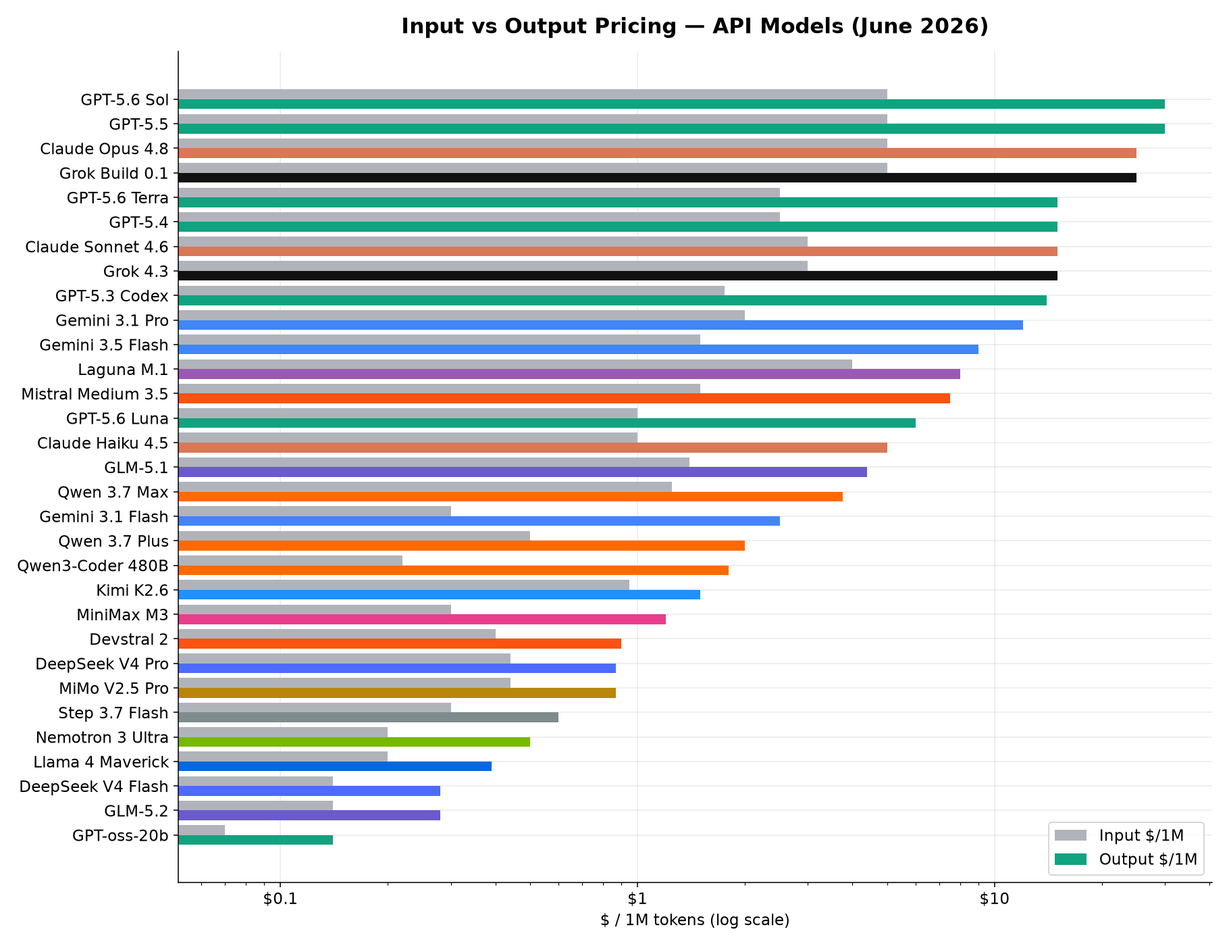
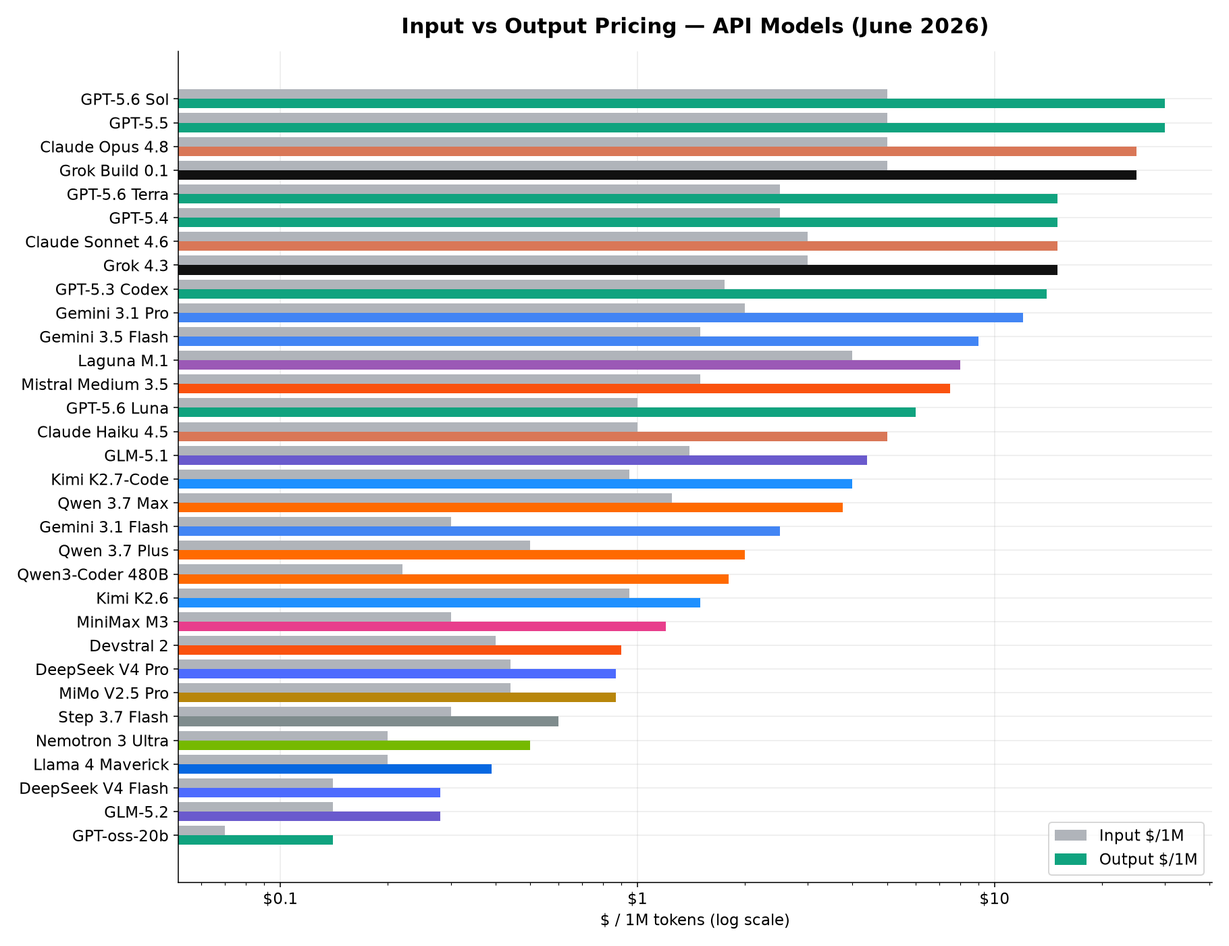
some more additions

Changed region(s): [[0.0, 0.1229, 0.9231, 0.8907]]

diff --git a/MEDIA.md b/MEDIA.md
@@ -11,9 +11,12 @@
 
 | Tool | Best for | Free tier | Paid entry | API | Link |
 |---|---|---|---|---|---|
-| **Midjourney** | Artistic quality (aesthetic king) | None | $10/mo Basic | ❌ no public API | midjourney.com |
-| **FLUX** (Black Forest Labs) | Open-weights + API flexibility | schnell/Klein open-weight (local) | API ~$0.01–0.10/img (Pro ~$0.08) | ✅ | bfl.ai |
-| **Ideogram** | Readable **text in images** | 10 credits/wk (~40 img) | Plus $15/mo (1,000 credits) | Enterprise | ideogram.ai |
+| **Midjourney v8.1** | Artistic quality (aesthetic king) — still strongest aesthetic | None | $10/mo Basic → $120 Mega | ❌ no public API (subscription-only) | midjourney.com |
+| **FLUX.2 Pro** (Black Forest Labs) | **Best photoreal API**, multi-ref consistency, edit ≤4MP | schnell/Klein open-weight (local) | MP-based: ~$0.03 first MP then $0.015/MP (~$0.02–0.06/img) | ✅ | bfl.ai |
+| **gpt-image-2** (OpenAI) | Conversational image creation, **95%+ text** accuracy, 4K, web-search/thinking | ChatGPT free (limited) | API (token-based) · Plus $20/mo | ✅ (API + Codex) | openai.com |
+| **Imagen 4** (Google) | **Best text rendering** + photorealism, 2K, SynthID | Free in AI Studio | $0.02 Fast · $0.04 Std · $0.06 Ultra /img | ✅ | ai.google.dev |
+| **Ideogram v3** | Readable **text in images** (typography king, 90–95%), Style Refs | 10 credits/wk (~40 img) | Plus $15/mo (1,000 credits) | Enterprise | ideogram.ai |
+| **MAI-Image-2.5** (Microsoft) | T2I + editing, **#3 on Arena** (beats Nano Banana Pro) | — | $5/$33 per 1M (+ Flash variant) | ✅ Foundry/OpenRouter/Fireworks | microsoft.ai |
 | **Recraft** | **Vectors / SVG**, brand systems | 50 credits/day | $10/mo (1,000 credits) | ✅ | recraft.ai |
 | **Leonardo AI** | Game/concept art + editing | 150 tokens/day (~20–30 img) | $12/mo | ✅ | leonardo.ai |
 | **Krea** | Real-time gen, generous free | 50–100/day | ~$5/mo (annual) | ✅ | krea.ai |
@@ -23,7 +26,7 @@
 | **Adobe Firefly** | Commercial-safe, integrated | Free credits | Creative Cloud | ✅ | firefly.adobe.com |
 | **Stable Diffusion / SDXL / SD3** | Local, fully free | Free (open-weight) | — | self-host | stability.ai |
 
-> **Cheapest API at scale:** Flux 2 Pro (~$0.08/img). **Most generous free:** Krea / Recraft (50/day). **Commercial-safe:** Firefly. ⚠ Free tiers usually make outputs public + trainable; only paid = private + ownership.
+> **Cheapest API at scale:** Imagen 4 Fast / FLUX.2 Pro (~$0.02/img). **Best text-in-image:** Ideogram v3 / Imagen 4 / gpt-image-2 (95%+). **Strongest aesthetic:** Midjourney v8.1 (no API). **Most generous free:** Krea / Recraft (50/day). **Commercial-safe:** Firefly. ⚠ Free tiers usually make outputs public + trainable; only paid = private + ownership.
 
 ---
 
@@ -32,7 +35,15 @@
 | Tool | What | Free tier | Link |
 |---|---|---|---|
 | **ElevenLabs** | Best TTS + voice cloning | 10K chars/mo | elevenlabs.io |
+| **Alibaba Fun-Realtime-TTS** | **#1 Arena Elo (1,219)** — beats Gemini 3.1 Flash TTS & Cartesia Sonic. 30+ langs, Chinese dialects | API ~$27.6/1M chars | tongyi (FunAudioLLM) |
+| **Inworld Realtime TTS-2** | Closed-loop (hears prior audio), NL voice-direction, 100+ langs — built for game NPCs | API ~$35/1M chars | inworld.ai |
+| **OpenAI GPT-Realtime-2** | GPT-5-class speech-to-speech — *reasons* before speaking, tool calls mid-speech, preambles | API $32/$64 per 1M audio tok | openai.com |
 | **Cartesia** (Sonic) | Ultra-low-latency TTS for agents | Free credits | cartesia.ai |
+| **Mistral Voxtral TTS** | **Open-weight** frontier TTS (CC BY-NC), 3s voice clone, ~90ms TTFA, 9 langs. Beats ElevenLabs Flash | Weights free (HF) · API $16/1M chars | mistral.ai |
+| **Hume AI TADA** | **MIT** open — text-acoustic dual alignment = *zero hallucinations*, 5x+ faster, ≤700s. 1B EN / 3B multiling | Free (open-weight) | hume.ai |
+| **Kyutai Pocket TTS** | **100M params, runs CPU realtime** (even WASM/browser), voice clone, 6 langs. Lightest prod TTS | Free (open-weight) | kyutai.org |
+| **MAI-Voice-2** (Microsoft) | TTS, 15 langs, voice clone from short sample (+Flash) | API (Foundry/OpenRouter) | microsoft.ai |
+| **MAI-Transcribe-1.5** (Microsoft) | SOTA STT — 5x faster than competitors, 43 langs | API (Foundry/OpenRouter) | microsoft.ai |
 | **PlayHT / Play.ai** | TTS + voice agents | Free trial | play.ht |
 | **Deepgram** | Fast STT (transcription) | $200 free credit | deepgram.com |
 | **AssemblyAI** | STT + audio intelligence | Free credits | assemblyai.com |
@@ -41,6 +52,8 @@
 | **Suno / Udio** | Music generation | Free daily credits | suno.com · udio.com |
 | **Stability Audio** | Music/SFX | Free tier | stableaudio.com |
 
+> **TTS 2026 rankings (Artificial Analysis Speech Arena):** Fun-Realtime-TTS (1,219) > Gemini 3.1 Flash TTS (1,214) > Inworld TTS-2 (1,209) > Cartesia Sonic 3.5 (1,203) — within 24 Elo, tightest race ever.
+> **Pick:** open-weight/on-device → Voxtral · Hume TADA · Pocket TTS · reasoning voice agents → GPT-Realtime-2 · Inworld TTS-2 · cheapest quality → Fun-Realtime-TTS.
 > Full music-gen comparison + licensing tree → [AGENTS.md](./AGENTS.md) Part 13.
 
 ---
@@ -52,6 +65,11 @@ Three camps: **tracing** (Langfuse, LangSmith), **gateways** (Helicone, Portkey 
 | Tool | Camp | License | Free tier | Link |
 |---|---|---|---|---|
 | **Langfuse** | Tracing + prompts + eval | MIT (now ClickHouse-owned) | Hobby 50K obs/mo; **unlimited self-host** | langfuse.com |
+| **AgentOps** | Agent tracing — time-travel debugging, multi-agent viz | Apache 2.0 | Free tier; 400+ LLMs | agentops.ai |
+| **W&B Weave** | Tracing + eval inside existing W&B console (`@weave.op`) | Apache 2.0 | Free tier | wandb.ai/weave |
+| **Laminar** | Agent-first tracing, **OTel-native** (~5% overhead) | Apache 2.0 | Free 1GB; self-host free | laminar.sh |
+| **Confident AI** | Eval-first (cloud **DeepEval**) — every trace scored, alerts | OSS core (~12K★) | Free tier | confident-ai.com |
+| **Maxim AI** | Agent **simulation** pre-prod + real-time post-deploy | Closed | Free tier | getmaxim.ai |
 | **LangSmith** | Tracing (LangChain/Graph) | Closed | 5K traces/mo | smith.langchain.com |
 | **Helicone** | Gateway (1-line proxy) | Apache 2.0 | 10K req/mo, 7-day retention; self-host free | helicone.ai |
 | **Portkey** | Gateway (multi-provider routing) | MIT | 10K logs/mo | portkey.ai |
@@ -62,6 +80,8 @@ Three camps: **tracing** (Langfuse, LangSmith), **gateways** (Helicone, Portkey 
 | **Pydantic Logfire** | Tracing (Pydantic AI) | Free tier | — | pydantic.dev/logfire |
 
 > **Zero-cost stack:** self-host Langfuse or Phoenix → no per-unit cost. **Fastest start:** Helicone (change one URL). **By framework:** LangChain→LangSmith · LlamaIndex→Phoenix/Langfuse · raw API→Helicone/Portkey. Combine freely (OTel-based tools interop).
+
+> **2026 funding signals:** Langfuse **acquired by ClickHouse** (Jan 16, $400M Series D, $15B valuation) — still MIT, no pricing change. Braintrust raised **$80M Series B** (Feb 2026, ~$800M valuation; Vercel/Notion/Dropbox customers). Capital is flowing to eval/accountability infra, not just model deployment.
 
 ---
 
@@ -75,5 +95,7 @@ Three camps: **tracing** (Langfuse, LangSmith), **gateways** (Helicone, Portkey 
 | **Fern** | SDK + docs from OpenAPI | Free tier | buildwithfern.com |
 | **Inkeep / Trieve** | AI answer engine over your docs | Free tier | inkeep.com · trieve.ai |
 | **Context7** | Up-to-date lib docs as MCP for agents | Free | context7.com |
+| **Kapa AI** | AI assistant grounded in YOUR docs (cites sources, flags gaps). Ingests MD/GitHub/Confluence/YouTube/Zendesk → Slack/Discord/in-app + hosted MCP | Free tier | kapa.ai |
+| **Swimm** | **Code-coupled docs** — linked to code snippets, auto-flags/updates on change, CI staleness check | Free tier | swimm.io |
 
 Cross-ref: AI code review / SAST → [AGENTS.md](./AGENTS.md) Part 8 · video/music/UI → Parts 12–14.

diff --git a/AGENTS.md b/AGENTS.md
@@ -260,6 +260,7 @@ brew install aionui
 
 | Agent | By | Type | Price | Capability |
 |---|---|---|---|---|
+| **OpenClaw** | OpenClaw Foundation | Self-hosted personal agent | Free (MIT, BYO LLM key) | **380K+ stars — most-starred self-hosted agent.** Long-running Node service routing 23+ chat channels (WhatsApp/Telegram/Discord/Signal/Slack) to an agent that reads files, runs commands, persists memory. ClawHub skill registry. Founder Peter Steinberger joined OpenAI; foundation now stewards it. ⚠ Broad system access + untrusted 3rd-party skills = real RCE/malware risk |
 | **Manus AI** | Manus (ex-Monica.im) | Autonomous VM agent | Free 300cr/day · Pro $20 · Extended $200/mo | Sandboxed VM. Web browse, code, files, slides. 20 concurrent tasks on Pro |
 | **Genspark** | Genspark | All-in-one "Super Agent" | Free ~100–200cr/day (no card) · Plus $24.99 ($19.99/yr, 10K cr) · Pro $249.99 (125K cr) | Orchestrates many frontier models + 80+ tools. AI Slides/Sheets, image+video gen, AI Developer, real phone calls. Chat+image = 0 credits on paid through Dec 31 2026 |
 | **Devin** | Cognition | Autonomous SWE | $20/mo + $2.25/ACU | Full tickets end-to-end, PR creation |
@@ -299,7 +300,8 @@ brew install aionui
 | **pi-builder** | Wrapper | Wraps any installed CLI agent (Claude Code, Codex, OpenCode, Aider, Goose, Plandex, SWE-agent, Crush) behind single interface with capability routing, health caching, fallback chains, SQLite |
 | **LiteLLM** | Router | OpenAI-compatible proxy for 100+ providers. Used internally by OpenHands |
 | **OpenRouter** | Router | 200+ models via single API key. `:free` suffix for free models |
-| **MCP** | Protocol | Model Context Protocol — standard for agent↔tool integration. 36,000+ servers |
+| **MCP** | Protocol | Model Context Protocol — standard for agent↔tool integration. 72,500+ servers (cross-registry, Jun 2026) |
+| **A2A (Agent2Agent)** | Protocol | Google's open spec for agent↔agent interop — the companion to MCP (tool access). Native in Google ADK, OpenAgents, VoltAgent |
 | **ACP (Zed)** | Protocol | Agent Client Protocol — run any agent natively in Zed editor |
 | **CLIProxyAPI** | Proxy | Wraps Claude Code / Codex / Antigravity / Grok Build OAuth sessions → OpenAI-compatible API. Multi-account round-robin load balancing. 38.5K stars. [github.com/router-for-me/CLIProxyAPI](https://github.com/router-for-me/CLIProxyAPI) |
 
@@ -402,6 +404,14 @@ Each MCP server exposes **Tools** (callable actions), **Resources** (readable da
 | **Docker MCP** | 4K+ | Container management — build, run, inspect |
 | **Kubernetes MCP** | 3K+ | Pod management, deployments, logs |
 
+**Creative / Design**
+
+| Server | Stars/Scale | What It Does |
+|---|---|---|
+| **Anthropic Creative Connectors** | 9 official | Claude for Creative Work (Apr 28 2026) — Blender, Adobe CC (50+ tools), Ableton, Autodesk Fusion, SketchUp, Affinity, Resolume, Splice. MCP-based → work in any MCP client, free on all plans |
+| **Figma Dev Mode MCP** | official | Figma's own Dev Mode server — pull design context (frames, variables, components) straight into the IDE/agent |
+| **Docker Hub MCP** | official | Docker's MCP catalog — discover/run containerized MCP servers in a sandbox |
+
 ### MCP Apps (January 26, 2026)
 
 Anthropic launched **MCP Apps** — MCP servers can now render interactive UIs directly inside Claude's chat window. Not just text responses — actual interactive interfaces.
@@ -422,8 +432,9 @@ Remote MCP runs as hosted endpoints — no local server needed, connect via URL 
 | Atlassian | mcp.atlassian.com | OAuth |
 | Linear | mcp.linear.app | API key |
 | Sentry | mcp.sentry.io | API key |
+| Cloudflare | 13 hosted servers (~2,500 API endpoints) | OAuth |
 
-Remote MCP grew from 16 servers (Jan 2026) → 25+ (Apr 2026). All major dev platforms now have remote endpoints.
+Remote MCP grew from 16 servers (Jan 2026) → 25+ (Apr 2026). All major dev platforms now have remote endpoints. **Cloudflare** ships the widest first-party set — 13 remote servers spanning ~2,500 API endpoints (Workers, R2, KV, DNS, Radar, etc.).
 
 ### Build Your Own MCP Server
 
@@ -789,6 +800,8 @@ Visual platforms for building AI workflows, RAG pipelines, and multi-agent syste
 | **Activepieces** | activepieces.com | 18K+ | Zapier-like + AI agents | Yes | Yes | $99+ |
 | **Stack AI** | stack-ai.com | — | Enterprise no-code AI builder | No | No | $199+ |
 | **Zapier AI** | zapier.com | — | AI actions on 7,000+ integrations | No | Yes (limited) | $20+ |
+| **Gumloop** | gumloop.com | — | No-code AI agents for non-devs, 130+ integrations | No | Yes | $97+ |
+| **Lindy** | lindy.ai | — | No-code AI agents/assistants for non-devs (email, meetings, CRM) | No | Yes (limited) | $49+ |
 
 **n8n** — default for enterprise workflow automation. Visual + code mode. Built-in AI agents, human-in-the-loop steps, TypeScript extensibility. 150K+ stars, most mature.
 
@@ -797,6 +810,8 @@ Visual platforms for building AI workflows, RAG pipelines, and multi-agent syste
 **Langflow** — Python-first, developer-friendly. Best for RAG pipelines and complex agent graphs. Drag-and-drop + code hybrid.
 
 **Flowise** — LangChain visual. Wire vector store + model + tools in one screen. Perfect for local model setups via Ollama.
+
+**Gumloop** — fastest-rising no-code agent builder. $50M Series B led by Benchmark (Mar 2026, ~$70M total), YC-backed. Customers: Shopify, Ramp, Gusto, Instacart, Opendoor, Samsara. Model-agnostic — the pitch vs n8n is hosted speed + non-technical UX.
 
 **2026 enterprise pattern**: n8n as orchestration layer → Langflow/Flowise as AI reasoning layer.
 
@@ -816,8 +831,10 @@ Visual platforms for building AI workflows, RAG pipelines, and multi-agent syste
 | **Mastra** | mastra.ai | 22K+ | TypeScript | **TS leader** — workflows, HITL, Next.js (YC W25, v1.0 Jan 2026) |
 | **OpenAI Agents SDK** | openai.github.io/openai-agents-python | — | Python/JS | OpenAI-native handoffs (Swarm successor, model-locked) |
 | **Google ADK** | google.github.io/adk-docs | — | Python | Gemini-optimized, A2A interop (can call LangGraph/CrewAI agents) |
-| **Microsoft Agent Framework** | — | — | Python/.NET | Unified AutoGen + Semantic Kernel successor (1.0 GA) |
-| **Agno** (Phidata) | agno.com | — | Python | High-throughput agent swarms |
+| **Microsoft Agent Framework (MAF)** | github.com/microsoft/agent-framework | — | Python/.NET | Unified AutoGen + Semantic Kernel successor. **1.0 GA Apr 2026** — both predecessors now maintenance-only |
+| **Agno** (ex-Phidata) | agno.com | 39K+ | Python | High-throughput agent swarms. Most-starred pure-agent framework |
+| **VoltAgent** | voltagent.dev | ~2K | TypeScript | Observability-first TS framework — typed tools, MCP + A2A, VoltOps console (addthis claims 26K — unverified, sourced count ~1.5K Apr 2026) |
+| **OpenAgents** | github.com/openagents-org/openagents | — | Python | Multi-agent *network* platform — native MCP + A2A, shared browser/workspace, Launcher daemon |
 | **Vercel AI SDK** | sdk.vercel.ai | — | TypeScript | Full-stack TS agents, streaming UI |
 
 **Decision guide (2026):** complex stateful Python graphs → **LangGraph** (enterprise default: Klarna, Uber, JPMorgan) · fast multi-agent prototype → **CrewAI** (teams often graduate to LangGraph for checkpointing) · TypeScript → **Mastra** · type-safe Python → **Pydantic AI** · RAG-heavy → **LlamaIndex** · Microsoft/.NET → Microsoft Agent Framework. Pair any with an observability stack (LangSmith / Langfuse / Pydantic Logfire / AgentOps).

diff --git a/MODELS.md b/MODELS.md
@@ -27,7 +27,8 @@
 
 | Model | Company | SWE-bench | Src | In $/1M | Out $/1M | Context | Notes |
 |---|---|---|---|---|---|---|---|
-| **Fable 5** | Mythic | **95.0%** | [C] | — | — | — | SWE-bench record. Export-suspended Jun 12 (US controls). Not publicly usable |
+| **Fable 5** | Anthropic | **95.0%** | [V] | $10 | $50 | 1M | Mythos-class (tier above Opus). GA Jun 9 → pulled from subs Jun 23, export-suspended Jun 12 (US controls). SWE-bench Pro 80.3%. 30-day forced retention |
+| **Mythos 5** | Anthropic | **95.5%** | [C] | $10 | $50 | 1M | Same base as Fable 5, safety classifiers removed. "World's strongest cyber model" (ExploitBench 78%). Restricted to Project Glasswing cyber-defenders. Not GA |
 | **GPT-5.6 Sol** | OpenAI | ~91%[est] | [V] | $5 | $30 | 1.5M | Preview Jun 26. Flagship. TB 2.1 **88.8%** (Sol Ultra 91.9%). Max + Ultra (parallel subagents). Cerebras 750 tok/s in July |
 | **GPT-5.6 Terra** | OpenAI | ~88%[est] | [V] | $2.50 | $15 | 1M | Preview Jun 26. GPT-5.5-class at half price |
 | **GPT-5.6 Luna** | OpenAI | ~84%[est] | [V] | $1 | $6 | 1M | Preview Jun 26. Fast/high-volume tier |
@@ -43,13 +44,16 @@
 | Qwen 3.7 Max | Alibaba | 80.4% | open | $1.25 | $3.75 | 1M | Promo; list $2.50/$7.50 |
 | Qwen 3.7 Plus | Alibaba | ~78% | open | $0.50 | $2.00 | 1M | Reasoning model, 1M ctx |
 | Kimi K2.6 | Moonshot | 80.2% | open | $0.95 | **$1.50** | 262K | 4,000+ tool calls/session. Sweet spot |
+| **Kimi K2.7-Code** | Moonshot | ~80%[est] | open | $0.95 | **$4** | 262K | Jun 12. 1T MoE/32B active, forced thinking. +21.8% Kimi Code Bench v2 vs K2.6, -30% reasoning tokens. Modified MIT. Vendor benches only |
 | Grok 4.3 | xAI | ~78% | [C] | $3 | $15 | 128K | Closed eval |
 | Gemini 3.5 Flash | Google | 78.8% | open | $1.50 | $9 | 1M | |
 | Qwen3-Coder 480B | Alibaba | 78.0% | open | $0.22 | $1.80 | 1M | Apache 2.0, MoE 35B active. Free on OpenRouter |
 | Mistral Medium 3.5 | Mistral | 77.6% | open | $1.50 | $7.50 | 256K | EU-hosted, GDPR |
+| **Meta Muse Spark** | Meta (MSL) | 77.4% | [V] | — | — | — | Apr 8. First Meta Superintelligence Labs model (not Llama). Free on meta.ai, API private-preview only. Strong multimodal/health, weak agentic (TB 2.0 59%). Closed |
 | Laguna M.1 | Poolside | ~78% | [C] | $4 | $8 | 256K | Coding specialist |
 | MiMo V2.5 Pro | Xiaomi | 75.0% | open | $0.44 | **$0.87** | 1M | 40-60% fewer tokens/trajectory. Sweet spot |
 | Claude Haiku 4.5 | Anthropic | 74.8% | [V] | $1 | $5 | 200K | Fast, cheap Claude |
+| **MAI-Code-1-Flash** | Microsoft | ~74%[est] | [V] | — | — | — | 137B MoE/5B active. "Haiku-class but cheaper." Bundled into all Copilot plans + VS Code. Weights tunable. OpenRouter/Fireworks/Baseten |
 | Llama 4 Maverick | Meta | 74.0% | open | $0.20 | $0.39 | 1M | Apache 2.0 via third-party |
 | Gemini 3.1 Flash | Google | 74.0% | open | $0.30 | $2.50 | 1M | Cheapest Google |
 | Devstral 2 | Mistral | 72.2% | open | $0.40 | $0.90 | 256K | Best-value Mistral open-weight |
@@ -138,7 +142,7 @@
 | Context | Models |
 |---|---|
 | 1M | GPT-5.5, GPT-5.4, GPT-5.3, Opus 4.8, Sonnet 4.6, DeepSeek V4 Pro/Flash, MiniMax M3, Qwen 3.7 Max, Qwen3-Coder 480B, Llama 4 Mav, Gemini 3.x, MiMo V2.5 Pro, Nemotron 3, GLM-5.2 |
-| 262K | Kimi K2.6 |
+| 262K | Kimi K2.6, Kimi K2.7-Code |
 | 256K | Mistral Medium 3.5, Devstral 2, Laguna M.1, Step 3.7 Flash |
 | 200K | GLM-5.1, Claude Haiku 4.5 |
 | 128K | Grok 4.3, Grok Build 0.1 |
@@ -163,9 +167,24 @@
 | Model | Company | Status |
 |---|---|---|
 | **Gemini 3.5 Pro** | Google | Announced Google I/O (May 19), GA imminent. ~$15/$60 expected, **2M ctx**, Deep Think mode |
-| **Fable 5** | Mythic | SWE-bench record (95%). **Export-suspended Jun 12** (US controls) — not publicly usable |
+| **Fable 5** | Anthropic | Mythos-class (95%), GA Jun 9 → **export-suspended Jun 12** (US controls). Now in Table 1 |
 | **DeepSeek V5** | DeepSeek | Rumored Q2–Q3 2026 — expected to push Tier-1 capability + drop cost further |
 | **Kimi K3** | Moonshot | Rumored Q3 2026 |
+| **MAI-Thinking-1** | Microsoft | Flagship reasoning, private preview via Foundry (Build 2026, Jun 2). 35B MoE, 97% AIME 2025, 53% SWE-bench Pro, 256K ctx. Trained no-distillation, preferred over Sonnet 4.6 in blind evals |
+| **Mythos 5** | Anthropic | Mythos-class cyber model (95.5%). Project-Glasswing-only with US gov — never GA |
+| **Gemini Omni Pro** | Google | Full any-in/any-out follow-up to Omni Flash (I/O May 19). Dev API "coming weeks", no pricing yet |
+
+---
+
+## Consumer / On-Device (not API-accessible)
+
+> Frontier-adjacent models you can't call from code — listed so the archive stays complete.
+
+| Model | Company | What it is |
+|---|---|---|
+| **Apple AFM 3** | Apple | WWDC Jun 8 family powering new Siri AI. On-device: Core (3B dense), Core Advanced (20B sparse, ~1–4B active via Instruction-Following Pruning). Cloud: AFM 3 Cloud, ADM 3 Cloud (image), Cloud Pro (Nvidia GPUs in Google Cloud under Private Cloud Compute). Gemini used as distillation *teacher*, not runtime. No EU/China at launch |
+| **Gemini Omni Flash** | Google | First "any-to-any" Google model (I/O May 19). Any input → ~10s video+audio out, conversational editing, personal avatars (number-handshake anti-deepfake), SynthID + C2PA baked in. AI Plus/Pro/Ultra + free in YouTube Shorts. No dev API yet |
+| **Meta Muse Spark** | Meta | Free on meta.ai (also in Table 1) — listed here as the consumer entry point; API is partner-only |
 
 **How to find early access:** search `"<model> early access" / "<model> preview" / "<model> waitlist"`, the vendor's Discord/X, and `r/LocalLLaMA` + `r/singularity`. Open-weight Chinese models (GLM/DeepSeek/Kimi/Qwen/MiniMax) usually ship **directly as MIT/Apache weights** — no waitlist; grab them on HuggingFace/ModelScope day one.
 
@@ -196,12 +215,17 @@
 |---|---|
 | Mar 18 | MiniMax M2.7 — "self-evolution" agentic training |
 | Apr 7 | GLM-5.1 (Z.AI) — 744B MoE, 200K ctx, MIT |
+| Apr 8 | Meta Muse Spark — first Meta Superintelligence Labs model (77.4%), free on meta.ai |
 | Apr 16 | Claude Opus 4.7 |
 | Apr 21 | Kimi K2.6 — briefly tops open SWE-bench Pro (58.6%) |
 | Apr 23 | GPT-5.5 |
 | Apr 24 | DeepSeek V4 Pro (1.6T/49B) + V4 Flash (284B/13B), MIT, 1M ctx |
+| May 19 | Gemini Omni Flash — Google's first any-to-any multimodal (I/O) |
 | May 28 | Claude Opus 4.8 — 1M ctx, hybrid reasoning |
-| Jun 12 | Fable 5 (95%) export-suspended |
+| Jun 2 | Microsoft MAI models (Build 2026) — MAI-Thinking-1, MAI-Code-1-Flash, +image/voice/transcribe |
+| Jun 8 | Apple AFM 3 family — new Siri AI (WWDC), Gemini-distilled |
+| Jun 9 | Claude Fable 5 + Mythos 5 GA — Mythos-class tier above Opus, $10/$50 |
+| Jun 12 | Fable 5 export-suspended (US controls); Kimi K2.7-Code released |
 | Jun 13 | GLM-5.2 — 1M ctx, MIT |
 | Jun 16 | MiniMax M3 tops open SWE-bench Pro (59.0%) |
 | Jun 26 | GPT-5.6 Sol/Terra/Luna preview — gated to ~20 orgs pending US-gov 30-day cyber review (EO Jun 2); GA "coming weeks" |

diff --git a/FRONTEND.md b/FRONTEND.md
@@ -10,6 +10,7 @@
 | Tool | What | Free tier | Paid entry | Model / BYOK | Link |
 |---|---|---|---|---|---|
 | **Bolt.new** | Browser IDE, full-stack in WebContainers | **1M tokens/mo** (no card) — most generous of the majors, ~2–5 small apps | Pro $25/mo (~13M tokens) | Claude (no BYOK) | bolt.new |
+| **Blink.new** (YC W25) | Prompt → production web/Next.js app, auto-provisions Turso + Firebase + Deno Deploy | Free tier | Credits | Managed | blink.new |
 | **Lovable** | Prompt → React + Supabase SaaS, cleanest code | 5 credits/day, ~30/mo cap | Pro from $25/mo (100 credits) | Managed | lovable.dev |
 | **Replit Agent** (Agent 4) | Cloud IDE + DB + deploy, 50+ langs, real-browser testing | Starter: daily Agent trial, 1 published app | Core $20–25/mo ($25 credits) · Pro $100/mo | Managed | replit.com |
 | **v0** (Vercel) | Polished React/Next UI, auto-deploy to Vercel | Limited free credits | Premium $20/mo (Mini/Pro/Max tiers) | Managed (no model choice) | v0.dev |
@@ -21,12 +22,30 @@
 
 > **Credit-burn rule (all of them):** vague prompts, long chats, and error loops eat the free allowance. Plan before prompting. Bolt's 1M tokens/mo is the most usable free runway.
 
+> Also emerging (lighter coverage, verify before relying): **Lumi.new**, **Rocket.new**, **NxCode** — newer prompt→full-stack builders. **Cloudflare VibeSDK** is open-source and self-hostable → see Part 5.
+
+---
+
+## Part 1.5 — Native Mobile App Builders (prompt → real React Native / iOS)
+
+> The web builders above output web apps. These produce actual native mobile — real `.tsx` React Native (Expo), not a no-code wrapper — with store submission.
+
+| Tool | What | Free | Paid entry | Output | Link |
+|---|---|---|---|---|---|
+| **a0.dev** (YC W25) | Prompt → React Native (Expo). Browser iOS simulator, 1-click App Store + Play submit, built-in payments/analytics/OTA, 2-way GitHub sync. Convex/Supabase backend | 1 app project | Pro $20/mo (100 msg/day) → up to $800/mo | Real RN `.tsx` | a0.dev |
+| **Rork** | Prompt → production mobile app, Expo on-device preview (Expo Go) | Trial | Credits | React Native | rork.com |
+| **Rork Max** | Rork's top tier — **native Swift** for the full Apple ecosystem: iPhone/iPad/Watch/Vision Pro/TV (only tool doing this) | — | Higher tier | RN + native Swift | rork.com |
+
 ---
 
 ## Part 2 — UI Component / Design Generators (prompt or screenshot → components)
 
 | Tool | What | Free | Code export | Stack | Link |
 |---|---|---|---|---|---|
+| **Claude Design** (Anthropic Labs) | Prompt → designs/prototypes/slides. **Codebase-aware** — links a repo, reads real React components to apply your design system. Canva export. Opus 4.7 vision. Research preview (Apr 17 2026) | Free on Pro/Max/Team/Enterprise (no separate SKU) | — (exports to Claude Code) | claude.ai/design |
+| **Banani** | Text/PRD/image-ref → editable multi-screen UI + linked prototype. Canvas bird's-eye view, clarifying-question agent. 1-click Figma export, HTML/CSS, **MCP server** for IDE integration | Free tier | Credits | React/HTML, Figma | banani.co |
+| **UXPilot** (Nodey) | Prompt → wireframes + hi-fi screens + screen flows, predictive heatmaps, Figma plugin. PRD → UI. 300K+ users | Free (non-commercial) | $15/mo | React/HTML/Tailwind | uxpilot.ai |
+| **Shadcn Studio** | shadcn/ui components, blocks, templates + AI theme designer. **MCP server** for shadcn/ui in Cursor/Claude Code; Figma → shadcn code plugin | Free + paid | Credits | shadcn/ui (React) | shadcnstudio.com |
 | **Subframe** | AI-native visual canvas, real design controls, 1:1 React/Tailwind export (YC, ex-Vercel/Stripe) | Free plan (export/page limits) | React + Tailwind | React/Tailwind only | subframe.com |
 | **Magic Patterns** | Screenshot/prompt → React, Figma + MCP import/export (YC S23, a16z) | Free tier | React + Tailwind | React | magicpatterns.com |
 | **Polymet** | Component-driven; builds a design system from prompts | Free trial (export = paid) | Yes (paid) | React | polymet.ai |
@@ -78,6 +97,8 @@
 | **Refine** | Data-rich React apps framework | MIT | ~35K | Free | refine.dev |
 | **Silex** | Open visual website builder | AGPL 3.0 | ~2.9K | Free | silex.me |
 | **Pythagora** | AI full-stack app dev (GPT Pilot lineage) | — | high | Free (BYOK) | pythagora.ai |
+| **Cloudflare VibeSDK** | Deploy your *own* vibe-coding platform in 1 click — per-user sandboxes, live preview, Workers deploy. React/TS/Tailwind output, Gemini default via AI Gateway | MIT | rising | Free (self-host on Cloudflare) | github.com/cloudflare/vibesdk |
+| **SuperDesign** | UI design agent inside your IDE — only OSS IDE-native option, 10+ variants locally, BYO model | MIT | rising | Free (BYOK) | superdesign.dev |
 
 > **Cheapest path to "Lovable but free":** Dyad or bolt.diy + a free LLM key (Google AI Studio / Groq) or local Ollama → unlimited builds at $0. See [FREE-ACCESS.md](./FREE-ACCESS.md).
 
@@ -95,4 +116,7 @@
 | Designer who wants real controls | Subframe |
 | Screenshot → code | Magic Patterns |
 | Marketing/portfolio site | Framer (design) / Webflow (content+SEO) |
+| Native mobile (real RN, store submit) | a0.dev / Rork (Rork Max for Apple-wide native Swift) |
+| Design system from your codebase | Claude Design |
+| Run your own AI app-builder platform | Cloudflare VibeSDK (self-host) |
 | Zero cost, self-host | Dyad / bolt.diy + free key |

diff --git a/FREE-ACCESS.md b/FREE-ACCESS.md
@@ -39,6 +39,9 @@ All endpoints are OpenAI SDK-compatible unless noted.
 | **Aion Labs** | Aion 2.5, Aion 2.0, Aion-RP 1.0 | 15 | — | 20K | Roleplay/storytelling specialist. IL-based |
 | **AIMLAPI** | 400+ models (GPT, Claude, Gemini, DeepSeek free tier) | — | — | — | One key, 400+ models |
 | **TokenLB** | Claude Opus 4.8, GPT-5.5, DeepSeek, Qwen, 40+ providers | — | — | — | Lower-cost reseller. OSS dev credit program |
+| **BazaarLink** | `auto:free` → best available free model (Llama/Gemma/Qwen/DeepSeek) | 10 | 150 | — | **No card, no trial expiry.** OpenAI-compatible (`sk-bl-`). Agent self-registration endpoint. TW-based |
+| **Pollinations.AI** | Text + image + audio + video, one API | — | — | — | **Zero-auth, no signup.** Server keys unmetered (client keys 1 req/hr/IP). Also in Table 1B |
+| **NLP Cloud** | Open + proprietary models (gen, NER, classification, embeddings) | limited | — | — | Free dev tier; production-NLP focus |
 
 ---
 
@@ -64,6 +67,7 @@ All endpoints are OpenAI SDK-compatible unless noted.
 | **Jina AI** | 10M tokens free | Embeddings, reranker, reader | Good for RAG testing; reader API turns URLs→LLM text | jina.ai |
 | **Pollinations.ai** | Free, server keys unmetered | Text + image + audio + video, single API | Client keys 1 req/hr/IP; server-side keys no rate limit | pollinations.ai |
 | **Sarvam AI** | ₹1000 signup credit | Indic-language LLMs + STT/TTS + doc digitization | Indian startup; best for Indian-language tasks | sarvam.ai |
+| **OpenCode Zen** | Mostly PAYG; **free stealth/experimental models** for limited periods | Curated coding-agent models (validated/benchmarked) | ⚠ Free models may train on your data — avoid sensitive code. No lock-in. `opencode/<id>` | opencode.ai/zen |
 
 ### Aggregators (route across many free tiers with one key)
 
@@ -73,6 +77,7 @@ All endpoints are OpenAI SDK-compatible unless noted.
 | **MrFadiAi/free-llm-gateway** | OpenAI-compatible gateway aggregating **24+ providers, 260+ free models** auto-discovered, auto-fallback, rate-limit tracking, dashboard | github.com/MrFadiAi/free-llm-gateway |
 | **FreeLLMAPI** | OSS BYOK proxy (~9.8K★). Stacks the free tiers of **16 providers (~1.7B tokens/mo, 110+ models)** behind one `/v1`. Smart routing, auto-failover, per-key rate tracking (avoids 429s), AES-256 key encryption. Live catalog = $19/yr; router free forever | freellmapi.co · github.com/tashfeenahmed/freellmapi |
 | **gaca-core** (G.A.C.A.) | OSS "Universal AI Bus" — **87+ free models from 11 providers**, OpenAI-compatible (`/v1/chat/completions`), auto-failover + ranking + rate limiting. Drop-in fallback for any OpenAI client | github.com/gacabartosz/gaca-core |
+| **freellm.net** | Directory of **224+ free models / 25 providers**, daily live-verified (real API calls). One-click config for Claude Code / Codex / Gemini CLI / OpenClaw | freellm.net |
 | **LiteLLM / OpenRouter** | Route + fall back across providers to multiply free quotas | litellm.ai · openrouter.ai |
 
 > Combine the multi-provider free tiers (Groq + Cerebras + Google AI Studio + Chutes + Nineteen + OpenRouter `:free`) behind LiteLLM/free-llm-gateway → effectively continuous free inference.
@@ -91,6 +96,13 @@ All endpoints are OpenAI SDK-compatible unless noted.
 | **Azure AI Foundry** | $200 | 30 days | GPT-5.5, Claude, Llama | New Azure account |
 | **OpenRouter** | $1 | — | Any model | Signup bonus |
 | **Moonshot (Kimi)** | Varies | — | Kimi K2.6 (80.2%) | moonshot.cn new account |
+| **xAI (Grok)** | $25 signup + **$150/mo** | recurring | Grok 4.3, Grok Code Fast | console.x.ai. ⚠ $150/mo needs data-sharing opt-in (irreversible) + $5 prior spend. Don't use for sensitive data |
+| **Vercel AI Gateway** | $5 / 30 days | refreshes | 40+ providers, one key, no markup | vercel.com/ai-gateway. Free ends after first payment |
+| **Fireworks AI** | Signup credits | — | Open models (Llama/Qwen/DeepSeek), fast serving | fireworks.ai |
+| **Upstage** | Signup credits | — | Solar Pro 2 (102B MoE) | upstage.ai |
+| **AI21 Labs** | Signup credits | — | Jamba (SSM-Transformer hybrid, long ctx) | ai21.com |
+| **Scaleway** | EU free trial | — | Open models; **Batch API has no rate limit** | scaleway.com |
+| **Nebius** | Signup credits | — | Open models (EU); OpenRouter partner | nebius.com |
 
 > **Stack strategy:** AWS ($300) + GCP ($300) + Azure ($200) = **$800+** in cloud AI credits.
 > Run Opus 4.8 ($25/M out) or GPT-5.5 ($30/M out) for months at zero cost.

diff --git a/REFERENCES.md b/REFERENCES.md
@@ -48,3 +48,23 @@ Content from these awesome-lists has been folded into the topic files; originals
 | [punkpeye/awesome-mcp-servers](https://github.com/punkpeye/awesome-mcp-servers) | [AGENTS.md](./AGENTS.md) Part 5A |
 | [kyrolabs/awesome-agents](https://github.com/kyrolabs/awesome-agents) · [caramaschiHG/awesome-ai-agents-2026](https://github.com/caramaschiHG/awesome-ai-agents-2026) | [AGENTS.md](./AGENTS.md) Part 9 |
 | [DmitryScaletta/free-database-services](https://github.com/DmitryScaletta/free-database-services) | [BACKEND.md](./BACKEND.md) |
+
+---
+
+## Primary Sources — June 2026 Additions
+
+> Web-verified (June 27, 2026) for the latest batch of models/tools added across the archive.
+
+**Models** — [Claude Fable 5 / Mythos 5 (Anthropic)](https://www.anthropic.com/news/claude-fable-5-mythos-5) · [Microsoft MAI models (Build 2026)](https://microsoft.ai/news/building-a-hillclimbing-machine-launching-seven-new-mai-models/) · [Kimi K2.7-Code (Moonshot)](https://www.marktechpost.com/2026/06/12/moonshot-ai-releases-kimi-k2-7-code-a-coding-model-reporting-21-8-on-kimi-code-bench-v2-over-k2-6/) · [Meta Muse Spark](https://ai.meta.com/blog/introducing-muse-spark-msl/) · [Apple AFM 3 (WWDC)](https://www.apple.com/newsroom/) · [Gemini Omni (I/O)](https://blog.google/innovation-and-ai/models-and-research/gemini-models/gemini-omni/)
+
+**Agents / MCP** — [OpenClaw](https://github.com/openclaw/openclaw) · [Gumloop $50M Series B](https://techcrunch.com/2026/03/12/gumloop-lands-50m-from-benchmark-to-turn-every-employee-into-an-ai-agent-builder/) · [VoltAgent](https://github.com/VoltAgent/voltagent) · [OpenAgents](https://github.com/openagents-org/openagents) · [Anthropic Creative Connectors](https://www.anthropic.com/news/claude-for-creative-work)
+
+**Frontend** — [Claude Design (Anthropic Labs)](https://www.anthropic.com/news/claude-design-anthropic-labs) · [a0.dev (YC W25)](https://news.ycombinator.com/item?id=43015267) · [Cloudflare VibeSDK](https://github.com/cloudflare/vibesdk) · [Blink.new (YC)](https://www.ycombinator.com/companies/blink-new)
+
+**Backend** — [Microsoft Rayfin](https://siliconangle.com/2026/06/02/microsoft-launches-rayfin-let-developers-agents-build-app-backends-fabric/) · [Zilliz Vector Lakebase](https://www.businesswire.com/news/home/20260621822926/en/) · [ScyllaDB Vector Search](https://www.scylladb.com/vector-search/) · [Actian VectorAI DB](https://www.actian.com/databases/vectorai-db/) · [Northflank BYOC](https://northflank.com/features/bring-your-own-cloud)
+
+**Media** — [FLUX.2 Pro pricing](https://bfl.ai/pricing) · [OpenAI gpt-image-2](https://openai.com/index/introducing-chatgpt-images-2-0/) · [Mistral Voxtral TTS](https://mistral.ai/news/voxtral-tts/) · [Hume TADA](https://www.hume.ai/blog/opensource-tada) · [Kyutai Pocket TTS](https://kyutai.org/blog/2026-01-13-pocket-tts) · [Fun-Realtime-TTS #1 Arena](https://artificialanalysis.ai/articles/fun-realtime-tts-new-text-to-speech-model-topping-artificial-analysis-leaderboard) · [GPT-Realtime-2](https://openai.com/index/advancing-voice-intelligence-with-new-models-in-the-api/) · [ClickHouse acquires Langfuse](https://siliconangle.com/2026/01/16/database-maker-clickhouse-raises-400m-acquires-ai-observability-startup-langfuse/) · [Braintrust $80M Series B](https://bayelsawatch.com/braintrust-raises-80m-series-b/)
+
+**Free access** — [BazaarLink](https://bazaarlink.ai/free) · [freellm.net](https://freellm.net/) · [OpenCode Zen](https://opencode.ai/zen) · [xAI free credits](https://www.getaiperks.com/en/blogs/22-xai-grok-free-credits) · [Vercel AI Gateway](https://vercel.com/ai-gateway)
+
+> ⚠ **Not added (research caught these):** *Kluster.ai* was shut down (acquired by MITO, sunset Jun 9 2026) — excluded as a dead free provider. *VoltAgent* star count listed as ~2K (sourced), not the 26K in the source notes (unverified).

diff --git a/BACKEND.md b/BACKEND.md
@@ -18,6 +18,7 @@
 | **Firebase** | NoSQL + auth + functions | Spark plan free (Google) | No | Google ecosystem, mobile | firebase.google.com |
 | **Encore** | TS/Go backend framework + infra | Free OSS, cloud free tier | Yes | Type-safe backend + IaC | encore.dev |
 | **Wasp** | Full-stack React/Node DSL | Free OSS | Yes | Opinionated full-stack | wasp.sh |
+| **Microsoft Rayfin** | Fabric/OneLake BaaS (TS code → SQL DB + Entra ID auth + GraphQL API + hosting) | Preview, perpetual free tier | No (deploys to Fabric tenant) | Agent-first; data lands in OneLake (no ETL). Replit launch partner. ⚠ Entra-ID-only auth | microsoft.com/microsoft-fabric |
 
 ---
 
@@ -54,7 +55,9 @@
 | **Deno Deploy** | TS/JS edge | Generous free | Deno runtime | deno.com/deploy |
 | **Coolify** | Self-host PaaS (Heroku alt) | Free OSS — bring a $5 VPS | You run the server | coolify.io |
 | **Dokku** | Git-push PaaS on your VPS | Free OSS | CLI-driven | dokku.com |
-| **Zeabur / Sevalla / Northflank / Koyeb** | Modern PaaS | Various free trials | — | — |
+| **Northflank** | GPU PaaS + true BYOC (AWS/Azure/GCP/Oracle/bare-metal) | Always-on free sandbox (2 services, 2 DBs) | Full data plane in *your* VPC, infra billed at list (no markup). NVIDIA B200→A100, MIG/time-slicing. SOC 2 Type 2 | northflank.com |
+| **SnapDeploy** | Minimal container hosting | 10 deploys/day free · $12/mo always-on | Lightweight; verify specs on vendor page | snapdeploy.io |
+| **Zeabur / Sevalla / Koyeb** | Modern PaaS | Various free trials | — | — |
 
 ---
 
@@ -70,6 +73,8 @@
 | **Supabase Auth** | Bundled w/ Supabase (50K MAU) | Free w/ the BaaS | Yes | supabase.com |
 | **Logto** | Free tier (OSS) | OIDC, multi-tenant | Yes | logto.io |
 | **SuperTokens** | Free self-host, 5K MAU cloud | OSS, full control | Yes | supertokens.com |
+| **ZITADEL** | 25K MAU free cloud | Enterprise CIAM, Go single-binary, event-sourced, first-class multi-tenant (B2B SaaS). OIDC/SAML/LDAP. ~13.5K★ | Yes | zitadel.com |
+| **Authentik** | Free (OSS) | **Proxy/forward-auth mode** — enforce MFA/SSO in front of ANY app (incl. legacy, no OIDC) with zero code changes. Also IdP + LDAP. ~21K★ | Yes | goauthentik.io |
 | **Ory / Hanko / Stack Auth** | OSS free | Passkeys, modern | Yes | ory.sh · hanko.io · stack-auth.com |
 
 > **Most free MAU:** WorkOS (1M). **Best DX:** Clerk. **Zero-cost full control:** Better-Auth / SuperTokens.
@@ -86,6 +91,9 @@
 | **Weaviate** | 14-day sandbox / OSS self-host | Hybrid search | weaviate.io |
 | **Chroma** | Free OSS (embedded) | Easiest local RAG | trychroma.com |
 | **Milvus / Zilliz** | OSS + free cloud tier | Scale | milvus.io |
+| **Zilliz Vector Lakebase** | Public preview, $100 credits | Milvus-based — unifies real-time search + batch analytics + external data-lake search on one zero-copy data plane. 3 serving tiers, BYOC, 30+ regions (Jun 2026) | zilliz.com |
+| **ScyllaDB Vector Search** | In ScyllaDB Cloud | Native vector in the NoSQL DB (GA Jan 2026) — embeddings beside operational data, CQL `ANN OF`. Rust/USearch, HNSW, 1B+ vectors, ~1.7ms P99 | scylladb.com |
+| **Actian VectorAI DB** | Free community (5K vectors) | Edge/air-gapped/on-prem — embeds in-app, runs on Jetson/Pi. ~22x faster vs Milvus/Qdrant (10M-vec VDBBench). HIPAA/GDPR/SOC2. Paid from $417/mo | actian.com |
 | **LanceDB** | Free OSS (embedded) | Serverless, multimodal | lancedb.com |
 | **Upstash Vector** | 10K vectors free | Serverless | upstash.com |
 | **Turbopuffer** | Usage-based, cheap | Object-storage-backed | turbopuffer.com |
